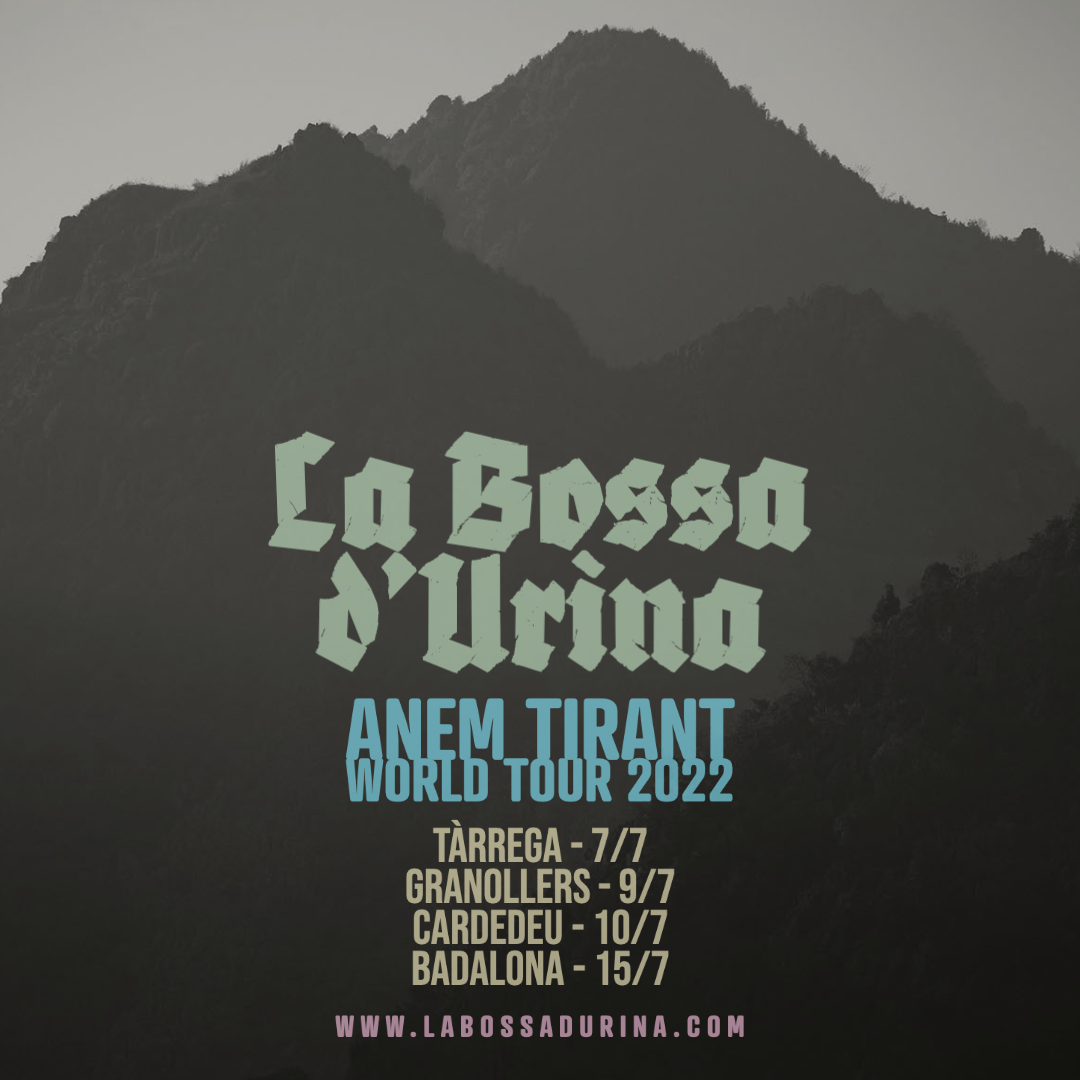
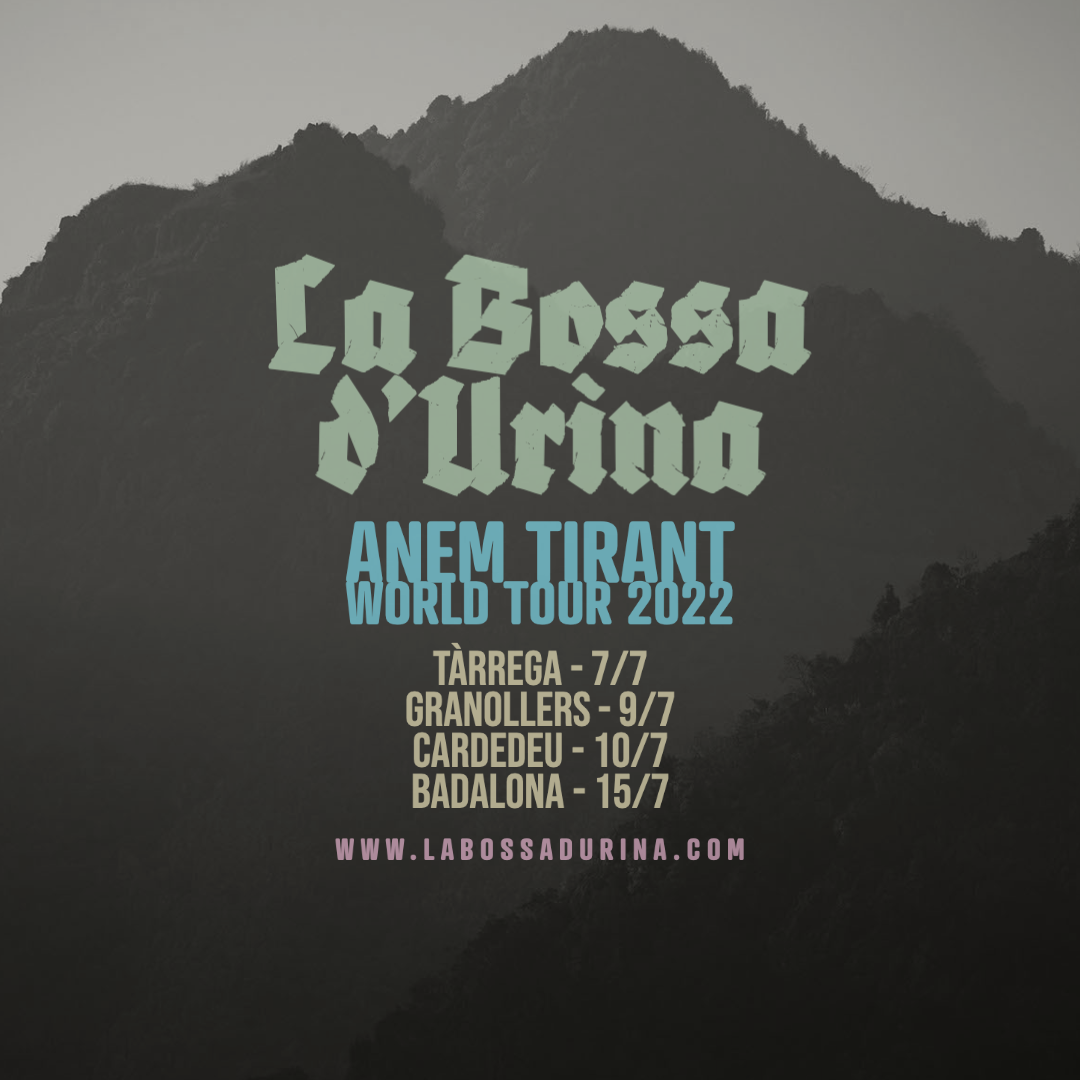
Updated date formatting. Better image placement for anem tirant world tour

Changed region(s): [[0.2444, 0.2139, 0.7639, 0.9778]]

diff --git a/labossadurina.com/themes/meghna-hugo/layouts/_default/single.html b/labossadurina.com/themes/meghna-hugo/layouts/_default/single.html
@@ -9,7 +9,7 @@
         <h1>{{ .Title }}</h1>
         <ul class="list-inline mb-50">
           <li class="list-inline-item"><a href="{{ `author/` | relLangURL }}{{ .Params.Author | urlize }}/">{{ .Params.Author }}</a></li>
-          <li class="list-inline-item">{{ dateFormat "Monday, Jan 2, 2006" .Date }}</li>
+          <li class="list-inline-item">{{ time.Format "Monday, Jan 2, 2006" .Date }}</li>
         </ul>
         <img class="img-fluid mb-50 lozad" data-src="{{ .Params.Image | absURL }}" alt="blog-image">
       </div>

diff --git a/README.md b/README.md
@@ -9,11 +9,11 @@ It's hosted at [Netlify](https://www.netlify.com/).
 
 Go to the root of the hugo page (labossadurina.com/) and type:
 
-    hugo new posts/<date>-<name>.md
+    hugo new blog/<date>-<name>.md
 
 E.g.,
 
-    hugo new posts/2020-09-25-recsys2020.md
+    hugo new blog/20220925-recsys2020.md
 
 
 ## To Run the Hugo Server Locally

diff --git a/labossadurina.com/content/catalan/blog/20220605-AnemTirantWorldTour2022.md b/labossadurina.com/content/catalan/blog/20220605-AnemTirantWorldTour2022.md
@@ -1,6 +1,6 @@
 ---
 title: "Anem Tirant World Tour 2022"
-date: 2022-06-05T16:00:32-08:00
+date: 2022-06-05
 draft: false
 image: images/blog/anemtirant2022.png
 author: Uri Nieto
